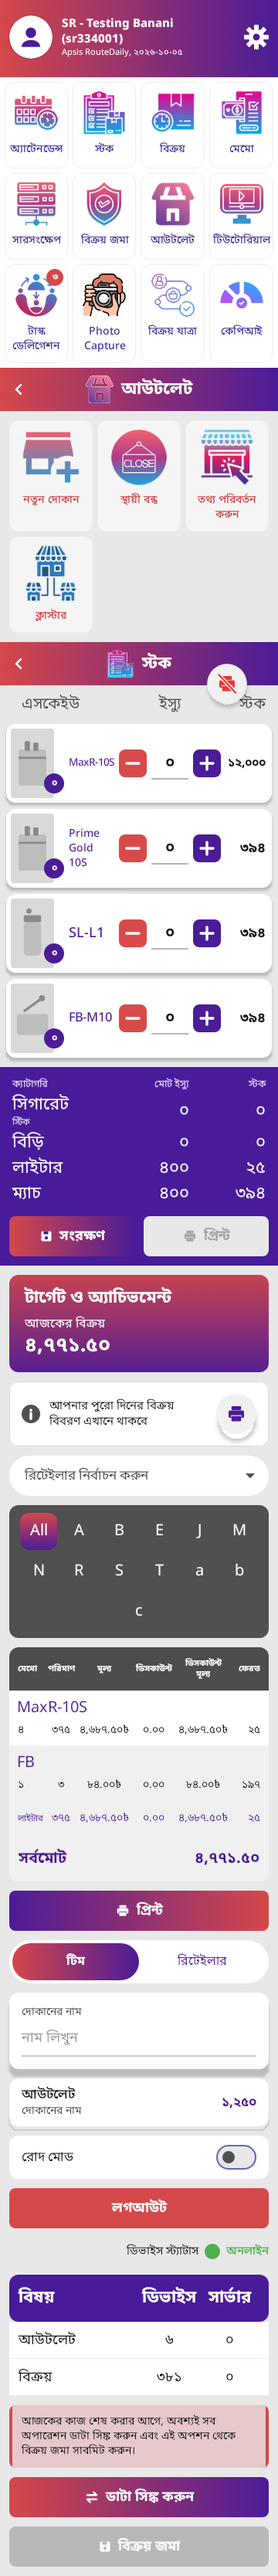
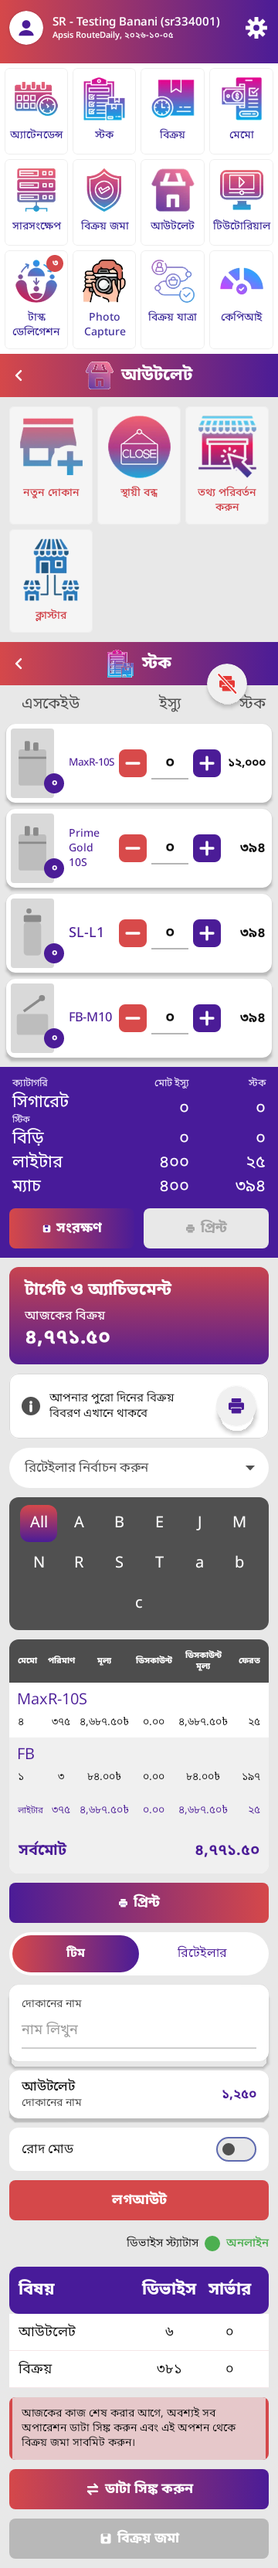
ui-kit: tiles, Home header, totals rows and button glyphs measured against home-1-tiles, outlet-menu and stock
- AronTile radius 6 dp (about 5 units on both references); menu tiles carry a picture of 78 % of the tile
  width (max 96 dp); AronTileGrid gets an optional gap (default 6 dp, unchanged) and AronMenuGap = 16 dp for
  Outlet-type menus (17 units on outlet-menu.png).
- AronHomeHeader: medium title and subtitle (not bold), 44 dp avatar, 30 dp gear, 12/22 dp padding.
- TotalsPanel rows at the reference pitch (line height 1.25 x size); Save/Print glyphs 13/15 dp (0.6 of the label).
- AMO Home goldens re-recorded for the header; evidence images rebuilt.

Additive: no name or signature removed.

Claude-Session: https://claude.ai/code/session_012DWzsWtYJkEcYzFUUfg1sn

diff --git a/android/core-ui/src/main/kotlin/com/aktcl/aron/core/ui/aron/Tiles.kt b/android/core-ui/src/main/kotlin/com/aktcl/aron/core/ui/aron/Tiles.kt
@@ -11,6 +11,7 @@ import androidx.compose.foundation.layout.Column
 import androidx.compose.foundation.layout.IntrinsicSize
 import androidx.compose.foundation.layout.Row
 import androidx.compose.foundation.layout.Spacer
+import androidx.compose.foundation.layout.aspectRatio
 import androidx.compose.foundation.layout.fillMaxHeight
 import androidx.compose.foundation.layout.fillMaxWidth
 import androidx.compose.foundation.layout.height
@@ -35,6 +36,7 @@ import androidx.compose.ui.semantics.contentDescription
 import androidx.compose.ui.semantics.role
 import androidx.compose.ui.semantics.semantics
 import androidx.compose.ui.text.style.TextAlign
+import androidx.compose.ui.unit.Dp
 import androidx.compose.ui.unit.dp
 import androidx.compose.ui.unit.sp
 import com.aktcl.aron.core.ui.AronLook
@@ -44,7 +46,7 @@ import com.aktcl.aron.core.ui.localizedNumber
 
 /**
  * One tile of a tile grid (PARITY-SPEC s2.4, sr/home-1-tiles.webp, sr/outlet-menu.png): a white card (Home, hairline `#EEEEEE`) or a
- * `#F5F5F5` card ([menu] screens), radius 12 dp, the 56 dp gradient [icon] over the [label] in 14 sp indigo (pass [labelColor] =
+ * `#F5F5F5` card ([menu] screens), radius 6 dp (measured on both references), the 56 dp gradient [icon] (menu: 78 % of the tile width, at most 96 dp) over the [label] in 14 sp indigo (pass [labelColor] =
  * `LocalAronLook.current.tileLabelOutlet` for the red Outlet-menu labels). [badge] > 0 shows a red count at the top end
  * ([badgeDescription] is its TalkBack text). Locked or deferred tiles are left out of the grid, never greyed (pass [enabled] = false
  * only for a tile that is visible but momentarily unavailable).
@@ -62,7 +64,7 @@ fun AronTile(
     enabled: Boolean = true,
 ) {
     val look = LocalAronLook.current
-    val shape = RoundedCornerShape(AronLook.CardRadius)
+    val shape = RoundedCornerShape(TileRadius)
     Box(
         modifier
             .heightIn(min = 112.dp)
@@ -77,10 +79,10 @@ fun AronTile(
             horizontalAlignment = Alignment.CenterHorizontally,
             verticalArrangement = Arrangement.Center,
         ) {
-            // menu tiles (sr/outlet-menu.png, three per row) carry a larger picture than the Home grid
-            val iconSize = if (menu) AronLook.MenuTileIcon else AronLook.TileIcon
-            if (icon != null) Image(icon, contentDescription = null, modifier = Modifier.size(iconSize))
-            else Box(Modifier.size(iconSize).clip(RoundedCornerShape(14.dp)).background(look.verticalBrush()))
+            // menu tiles (sr/outlet-menu.png, three per row) carry a picture of about 78 % of the tile width; Home a fixed 56 dp
+            val iconModifier = if (menu) Modifier.fillMaxWidth(MenuIconFraction).sizeIn(maxWidth = MenuIconMax).aspectRatio(1f) else Modifier.size(AronLook.TileIcon)
+            if (icon != null) Image(icon, contentDescription = null, modifier = iconModifier)
+            else Box(iconModifier.clip(RoundedCornerShape(14.dp)).background(look.verticalBrush()))
             Spacer(Modifier.height(10.dp))
             Text(label, style = lookStyle(14.sp, color = labelColor ?: look.tileLabel, align = TextAlign.Center, medium = true))
         }
@@ -100,6 +102,14 @@ fun AronTile(
     }
 }
 
+/** Tile corner radius: about 5 units on sr/home-1-tiles.webp and sr/outlet-menu.png (the 12 dp of the cards is too round here). */
+private val TileRadius = 6.dp
+private const val MenuIconFraction = 0.78f
+private val MenuIconMax = 96.dp
+
+/** Grid gap of the Outlet-type menus (sr/outlet-menu.png: 17 units between tiles and at the edges): `AronTileGrid(gap = AronMenuGap)`. */
+val AronMenuGap = 16.dp
+
 /**
  * Columns of the tile grid: 4 on a phone (PARITY-SPEC s2.4), 3 when large text leaves less than 330 dp of "1x" width, 2 below 240
  * (font scale 2.0 on a 360 dp phone gives 180, so 2).
@@ -114,17 +124,18 @@ fun aronTileColumns(widthDp: Float, fontScale: Float): Int {
 }
 
 /**
- * The tile grid (PARITY-SPEC s2.4): [columns] or [aronTileColumns], 8 dp gaps, every tile in a row as tall as the tallest. Not lazy:
- * a Home has at most about 16 tiles. Gaps 6 dp: four Bangla labels such as `টিউটোরিয়াল` fit one line at 360 dp. The [tile] lambda gets the modifier that sizes the cell; pass it to [AronTile].
+ * The tile grid (PARITY-SPEC s2.4): [columns] or [aronTileColumns], every tile in a row as tall as the tallest. Not lazy: a Home has
+ * at most about 16 tiles. [gap] 6 dp (Home): four Bangla labels such as `টিউটোরিয়াল` fit one line at 360 dp; menus pass [AronMenuGap].
+ * The [tile] lambda gets the modifier that sizes the cell; pass it to [AronTile].
  */
 @Composable
-fun <T> AronTileGrid(items: List<T>, modifier: Modifier = Modifier, columns: Int? = null, tile: @Composable (T, Modifier) -> Unit) {
+fun <T> AronTileGrid(items: List<T>, modifier: Modifier = Modifier, columns: Int? = null, gap: Dp = 6.dp, tile: @Composable (T, Modifier) -> Unit) {
     val fontScale = LocalDensity.current.fontScale
     BoxWithConstraints(modifier.fillMaxWidth()) {
         val n = columns ?: aronTileColumns(maxWidth.value, fontScale)
-        Column(verticalArrangement = Arrangement.spacedBy(6.dp)) {
+        Column(verticalArrangement = Arrangement.spacedBy(gap)) {
             items.chunked(n).forEach { row ->
-                Row(Modifier.fillMaxWidth().height(IntrinsicSize.Min), horizontalArrangement = Arrangement.spacedBy(6.dp)) {
+                Row(Modifier.fillMaxWidth().height(IntrinsicSize.Min), horizontalArrangement = Arrangement.spacedBy(gap)) {
                     row.forEach { item -> tile(item, Modifier.weight(1f).fillMaxHeight()) }
                     repeat(n - row.size) { Spacer(Modifier.weight(1f)) }
                 }

diff --git a/android/core-ui/src/main/kotlin/com/aktcl/aron/core/ui/aron/Chrome.kt b/android/core-ui/src/main/kotlin/com/aktcl/aron/core/ui/aron/Chrome.kt
@@ -198,7 +198,8 @@ fun AronScaffold(
 
 /**
  * The Home header (PARITY-SPEC s2.3, sr/home-1-tiles.webp): the gradient, a white round avatar with the person glyph (or [avatar]),
- * [title] = "Role - Name (login)" in white bold 15 sp, [subtitle] = route and date in 11 sp (measured on the reference), and the white settings gear at the end
+ * [title] = "Role - Name (login)" in white medium 15 sp, [subtitle] = route and date in medium 11 sp, a 44 dp avatar and a 30 dp gear
+ * (all measured on the reference), the avatar sitting above the middle of the bar as there, and the white settings gear at the end
  * ([settingsLabel] is its TalkBack label).
  */
 @Composable
@@ -217,21 +218,21 @@ fun AronHomeHeader(
             .background(look.barBrush())
             .sunlightRule(look)
             .windowInsetsPadding(WindowInsets.statusBars)
-            .padding(start = 12.dp, end = 4.dp, top = 20.dp, bottom = 24.dp),
+            .padding(start = 12.dp, end = 4.dp, top = 12.dp, bottom = 22.dp),
         verticalAlignment = Alignment.CenterVertically,
     ) {
-        Box(Modifier.size(56.dp).shadow(2.dp, CircleShape).clip(CircleShape).background(look.card), contentAlignment = Alignment.Center) {
-            if (avatar != null) Image(avatar, contentDescription = null, modifier = Modifier.size(56.dp))
-            else GlyphCanvas(Modifier.size(40.dp)) { person(look.purple) }
+        Box(Modifier.size(44.dp).shadow(2.dp, CircleShape).clip(CircleShape).background(look.card), contentAlignment = Alignment.Center) {
+            if (avatar != null) Image(avatar, contentDescription = null, modifier = Modifier.size(44.dp))
+            else GlyphCanvas(Modifier.size(32.dp)) { person(look.purple) }
         }
         Column(Modifier.weight(1f).padding(horizontal = 12.dp)) {
-            Text(title, style = lookStyle(15.sp, bold = true, color = look.onBar))
-            Text(subtitle, style = lookStyle(11.sp, color = look.onBar))
+            Text(title, style = lookStyle(15.sp, medium = true, color = look.onBar))
+            Text(subtitle, style = lookStyle(11.sp, medium = true, color = look.onBar))
         }
         Box(
             Modifier.size(AronLook.Touch).clickable(role = Role.Button, onClick = onSettings).semantics { contentDescription = settingsLabel },
             contentAlignment = Alignment.Center,
-        ) { GlyphCanvas(Modifier.size(34.dp)) { gear(look.onBar, hole = if (look.sunlight) look.card else look.barEnd) } }
+        ) { GlyphCanvas(Modifier.size(30.dp)) { gear(look.onBar, hole = if (look.sunlight) look.card else look.barEnd) } }
     }
 }
 
@@ -243,12 +244,12 @@ private fun ButtonContent(text: String, glyph: ButtonGlyph?, icon: Painter?, ink
     Row(verticalAlignment = Alignment.CenterVertically, horizontalArrangement = Arrangement.Center, modifier = Modifier.padding(horizontal = 12.dp, vertical = 8.dp)) {
         when {
             icon != null -> Image(icon, contentDescription = null, modifier = Modifier.size(20.dp))
-            glyph == ButtonGlyph.Save -> GlyphCanvas(Modifier.size(18.dp)) { save(ink, gap) }
-            glyph == ButtonGlyph.Print -> GlyphCanvas(Modifier.size(20.dp)) { printer(ink, crossed = false, gap = gap) }
+            glyph == ButtonGlyph.Save -> GlyphCanvas(Modifier.size(13.dp)) { save(ink, gap) }  // about 0.6 of the label (sr/stock.webp)
+            glyph == ButtonGlyph.Print -> GlyphCanvas(Modifier.size(15.dp)) { printer(ink, crossed = false, gap = gap) }
             glyph == ButtonGlyph.Sync -> GlyphCanvas(Modifier.size(20.dp)) { sync(ink) }
             glyph == ButtonGlyph.Submit -> GlyphCanvas(Modifier.size(18.dp)) { save(ink, gap) }
         }
-        if (icon != null || glyph != null) Spacer(Modifier.width(8.dp))
+        if (icon != null || glyph != null) Spacer(Modifier.width(6.dp))
         Text(text, style = lookStyle(18.sp, bold = true, color = ink, align = TextAlign.Center))
     }
 }

diff --git a/android/core-ui/src/main/kotlin/com/aktcl/aron/core/ui/aron/Tables.kt b/android/core-ui/src/main/kotlin/com/aktcl/aron/core/ui/aron/Tables.kt
@@ -67,12 +67,14 @@ fun TotalsPanel(header: TotalsLine, lines: List<TotalsLine>, modifier: Modifier 
 
 @Composable
 private fun TotalsRow(line: TotalsLine, size: TextUnit, color: Color) {
-    Row(Modifier.fillMaxWidth().padding(vertical = 2.dp), verticalAlignment = Alignment.CenterVertically) {
+    // rows as tight as sr/stock.webp (pitch about 1.6 x the glyph height; the Bangla face's own line box is about 1.8)
+    val lineHeight = size * 1.25f
+    Row(Modifier.fillMaxWidth().padding(vertical = 1.dp), verticalAlignment = Alignment.CenterVertically) {
         Column(Modifier.weight(1.3f)) {
-            Text(line.label, style = lookStyle(size, color = color))
+            Text(line.label, style = lookStyle(size, color = color).copy(lineHeight = lineHeight))
             if (line.caption != null) Text(line.caption, style = lookStyle(12.sp, color = LocalAronLook.current.onPanelMuted))
         }
-        line.values.forEach { Text(it, style = lookStyle(size, color = color, align = TextAlign.End), modifier = Modifier.weight(1f)) }
+        line.values.forEach { Text(it, style = lookStyle(size, color = color, align = TextAlign.End).copy(lineHeight = lineHeight), modifier = Modifier.weight(1f)) }
     }
 }
 

diff --git a/android/ui-screenshots/src/test/kotlin/com/aktcl/aron/uiscreenshots/KitParityShot.kt b/android/ui-screenshots/src/test/kotlin/com/aktcl/aron/uiscreenshots/KitParityShot.kt
@@ -37,6 +37,7 @@ import com.aktcl.aron.core.ui.aron.AronSecondaryButton
 import com.aktcl.aron.core.ui.aron.AronStatusDot
 import com.aktcl.aron.core.ui.aron.AronTargetCard
 import com.aktcl.aron.core.ui.aron.AronTile
+import com.aktcl.aron.core.ui.aron.AronMenuGap
 import com.aktcl.aron.core.ui.aron.AronTileGrid
 import com.aktcl.aron.core.ui.aron.AronTopBar
 import com.aktcl.aron.core.ui.aron.ButtonGlyph
@@ -177,8 +178,8 @@ class KitParityShot {
         )
         Column(Modifier.fillMaxSize().background(look.page)) {
             AronTopBar("আউটলেট", icon = painterResource(R.drawable.aron_art_outlet), onBack = {}, backLabel = "পেছনে")
-            Box(Modifier.padding(12.dp)) {
-                AronTileGrid(items, columns = 3) { (label, icon), m -> AronTile(label, painterResource(icon), {}, m, menu = true, labelColor = look.tileLabelOutlet) }
+            Box(Modifier.padding(AronMenuGap)) {
+                AronTileGrid(items, columns = 3, gap = AronMenuGap) { (label, icon), m -> AronTile(label, painterResource(icon), {}, m, menu = true, labelColor = look.tileLabelOutlet) }
             }
         }
     }

diff --git a/docs/status/ui-parity-ui-kit.md b/docs/status/ui-parity-ui-kit.md
@@ -5,7 +5,8 @@
 - **Container:** the SDK is not baked in; install it with `sdkmanager --sdk_root=/opt/android-sdk "platforms;android-37.0" "build-tools;37.0.0" "platform-tools"` (cmdline-tools zip from dl.google.com), `local.properties` sdk.dir=/opt/android-sdk.
 - **Evidence:** `python3 tools/ui-kit/parity_evidence.py [stock ...]` rebuilds docs/evidence/ui-parity/kit-*.png from the KitParityShot captures (reference left, kit right, 1000 px high).
 - **Scale note (fidelity):** measured on sr/stock.webp scaled to 411 units, the reference's elements are about 0.6 to 0.75 of the PARITY-SPEC dp values (minus 21 units vs 36 dp, top bar 36 vs 56): the reference phone runs a smaller display size. The kit keeps the spec's dp sizes (48 dp targets, legible Bangla on 360 dp phones) and matches proportions, weights and layout within them.
-- **Fidelity log:** PackCard: SKU code medium weight (reference stroke/cap 0.12 = Medium, was Bold), quantity and stock figures bold, quantity field grows from 48 dp (360 dp phones, unchanged) to 96 dp at 411 dp so the underline fills minus-to-plus as on the reference; PackListHeader follows.
+- **Fidelity log:** PackCard: SKU code medium weight (reference stroke/cap 0.12 = Medium, was Bold), quantity and stock figures bold, quantity field grows from 48 dp (360 dp phones, unchanged) to 96 dp at 411 dp so the underline fills minus-to-plus as on the reference; PackListHeader follows. TotalsPanel rows tighter (line height 1.25 x size); button Save/Print glyphs 13/15 dp (0.6 of the label as on stock.webp). Tiles: radius 6 dp (measured about 5 units on home-1-tiles and outlet-menu, the 12 dp was too round); menu tiles (outlet-menu.png): picture 78 % of the tile width (max 96 dp), new optional `AronTileGrid(gap = AronMenuGap)` = 16 dp (17 units on the reference). AronHomeHeader: title and subtitle medium (not bold), avatar 44 dp, gear 30 dp, padding 12/22 dp (the avatar sits above the middle as on the reference).
+- **Told the screens:** ui-sr-b: use `gap = AronMenuGap` and `Modifier.padding(AronMenuGap)` on Outlet-type menus. ui-sr-a: on sr/stock.webp the Print button is grey with a DARK label while the printer is off (AronSecondaryButton enabled = true, tap to connect), and the Home subtitle date shows Latin digits.
 
 ## HANDOVER from session 1 (2026-10-18 23:20 UTC)
 - **State:** branch `lane/ui-kit`; candidate run 1211 on abac6ba46385 (pushed 23:13). Lead rule: never push while a run of this branch is running or queued (a push cancels it); push at most once per CI cycle; after a green run send the lead `ready <full sha>` with the parity PNG list (docs/evidence/ui-parity/kit-*.png). Every earlier run was cancelled except 69e77e2 (red: money-float scan, fixed) and 8bb3d86 (Android, lint, size gate green before cancel).
@@ -24,11 +25,11 @@ What still differs (kit level): packshots show the grey silhouette until ui-pack
 | Tokens (`AronLook`, `LocalAronLook`) | PARITY-SPEC s1 | DONE (exact values; Sunlight optional) | kit skeleton |
 | AronTopBar + AronPrinterBadge | stock.webp, sale-select.png, summary.png | PARTIAL: drawn printer glyph; screen icon needs the vector set | kit skeleton |
 | AronScaffold | stock.webp | DONE | kit skeleton |
-| AronHomeHeader | home-1-tiles.webp | DONE (drawn gear and avatar) | kit skeleton |
-| AronTile + AronTileGrid | home-1-tiles.webp, outlet-menu.png | DONE (menu tiles 72 dp icon, red labels) | icons push |
+| AronHomeHeader | home-1-tiles.webp | DONE (drawn gear and avatar); medium title, 44 dp avatar, 30 dp gear (session 2) | kit skeleton |
+| AronTile + AronTileGrid | home-1-tiles.webp, outlet-menu.png | DONE; radius 6 dp, menu picture 78 % of the tile, `gap` (AronMenuGap 16 dp for menus) (session 2) | icons push |
 | PackCard + PackListHeader | stock.webp | DONE; SKU medium, figures bold, quantity field 48 to 96 dp with the row (session 2); packshot 56 x 90 dp (measured 51 x 83 on the screenshot; spec text says about 68 x 120, screenshot wins) | kit skeleton |
 | PackshotImage + PackshotProvider | stock.webp | DONE (silhouette fallback per category); real images: ui-packshots lane | kit skeleton |
-| TotalsPanel | stock.webp | DONE | kit skeleton |
+| TotalsPanel | stock.webp | DONE; rows tightened to the reference pitch (session 2) | kit skeleton |
 | AronPrimaryButton / AronSecondaryButton / AronPlus / AronMinus | stock.webp, summary.png | DONE | kit skeleton |
 | RetailerPicker + LetterFilterBar | sale-select.png | DONE | kit skeleton |
 | SummaryTable | summary.png | DONE | kit skeleton |

diff --git a/docs/status/android-core-ui.md b/docs/status/android-core-ui.md
@@ -13,7 +13,7 @@ AronScaffold(
 ) { /* BoxScope content: LazyColumn of PackCard ... */ }
 
 AronHomeHeader(title = "SR - Name (login)", subtitle = routeAndDate, onSettings = openSettings, settingsLabel = settings, avatar = null)
-AronTileGrid(tiles /*, columns = null -> aronTileColumns(widthDp, fontScale): 4 / 3 / 2 */) { t, m ->
+AronTileGrid(tiles /*, columns = null -> aronTileColumns(widthDp, fontScale): 4 / 3 / 2; gap = 6.dp (Home) or AronMenuGap (16 dp, Outlet-type menus) */) { t, m ->
     AronTile(label, icon = painterResource(t.icon), onClick = t.go, modifier = m, badge = n, badgeDescription = text, menu = false, labelColor = null) }
     // Outlet menu: menu = true, labelColor = LocalAronLook.current.tileLabelOutlet. Deferred/locked tiles: leave them out.
 
